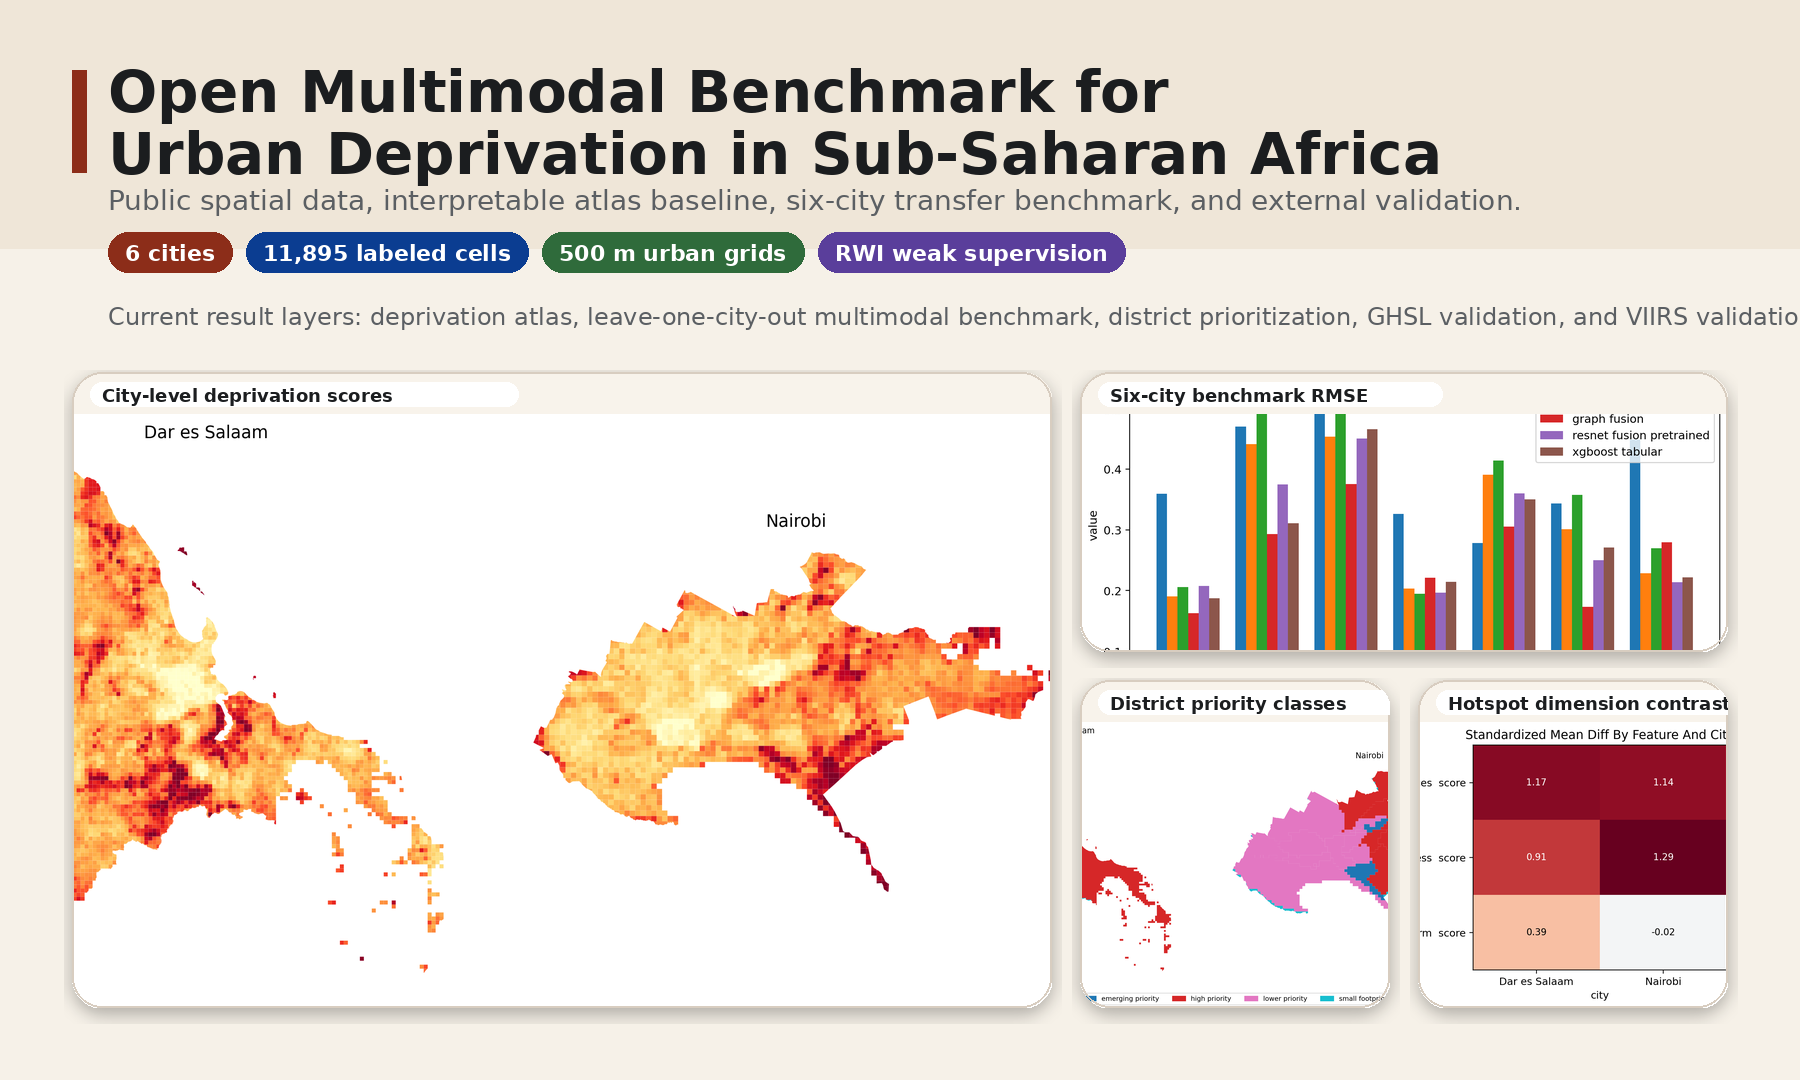
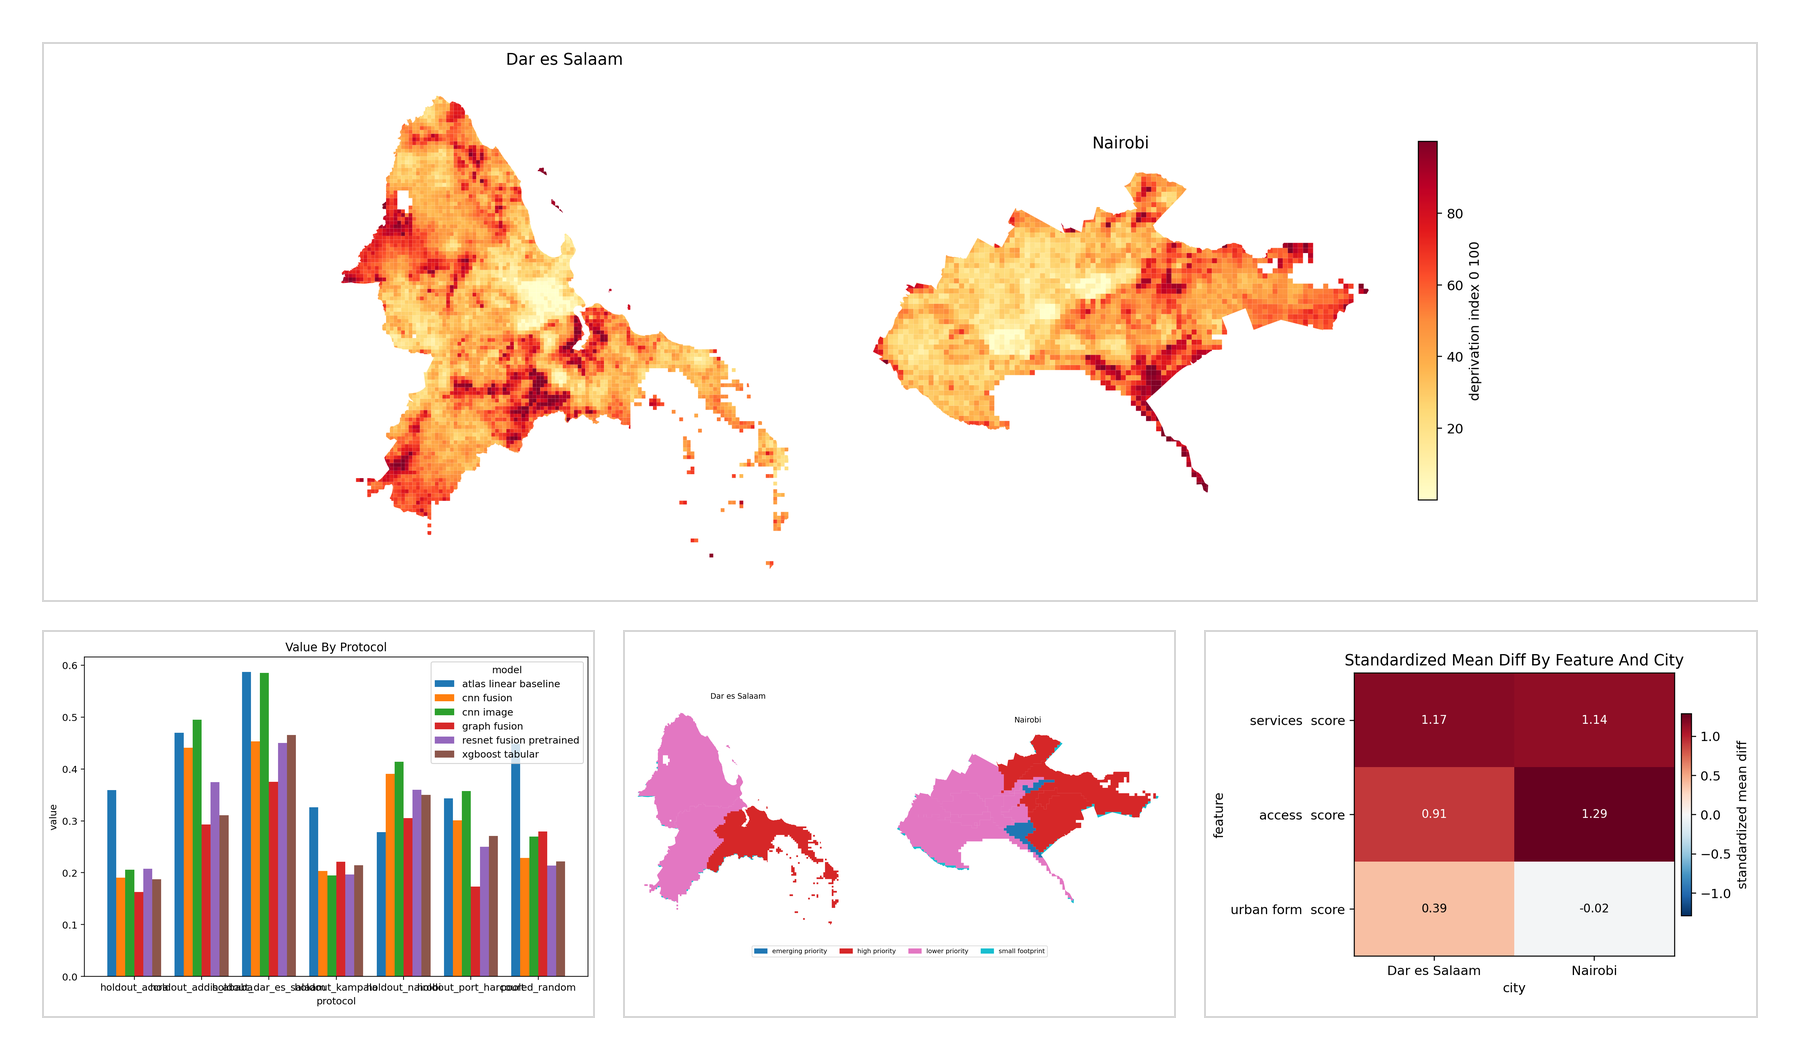
Update readme

diff --git a/image/README/build_readme_teaser.py b/image/README/build_readme_teaser.py
@@ -3,56 +3,22 @@ from __future__ import annotations
 from pathlib import Path
 
 from PIL import Image
-from PIL import ImageColor
 from PIL import ImageDraw
-from PIL import ImageFilter
-from PIL import ImageFont
 
 
 ROOT = Path(__file__).resolve().parents[2]
-OUTPUT = ROOT / "image" / "README" / "readme_teaser.png"
+OUT_DIR = ROOT / "image" / "README"
+
 ASSETS = {
-    "map": ROOT / "outputs" / "figures" / "paper_core" / "figure_01_city_score_map.png",
-    "rmse": ROOT / "outputs" / "figures" / "ml" / "core6_rwi_benchmark_rmse.png",
-    "districts": ROOT / "outputs" / "figures" / "paper_core" / "figure_09_admin_priority_class.png",
-    "contrast": ROOT / "outputs" / "figures" / "paper_core" / "figure_05_hotspot_dimension_contrast.png",
+    "teaser_map": ROOT / "outputs" / "figures" / "paper_core" / "figure_01_city_score_map.png",
+    "teaser_rmse": ROOT / "outputs" / "figures" / "ml" / "core6_rwi_benchmark_rmse.png",
+    "teaser_districts": ROOT / "outputs" / "figures" / "paper_core" / "figure_09_admin_priority_class.png",
+    "teaser_contrast": ROOT / "outputs" / "figures" / "paper_core" / "figure_05_hotspot_dimension_contrast.png",
+    "absolute_relative": ROOT / "outputs" / "figures" / "paper_core" / "figure_04_absolute_relative_scatter.png",
 }
 
-WIDTH = 1800
-HEIGHT = 1080
-MARGIN = 72
-PANEL_BG = "#f8f3eb"
-TEXT_MAIN = "#1b1d1f"
-TEXT_MUTED = "#5b5f63"
-ACCENT = "#8c2d19"
-ACCENT_2 = "#0b3d91"
-ACCENT_3 = "#2f6b3b"
-ACCENT_4 = "#5a3e9b"
-CARD_BORDER = "#d8cdc0"
-CANVAS = "#f6f1e8"
-
-
-def _load_font(size: int, bold: bool = False) -> ImageFont.FreeTypeFont | ImageFont.ImageFont:
-    candidates = []
-    if bold:
-        candidates.extend(
-            [
-                "/usr/share/fonts/truetype/dejavu/DejaVuSans-Bold.ttf",
-                "/usr/share/fonts/truetype/liberation2/LiberationSans-Bold.ttf",
-            ]
-        )
-    else:
-        candidates.extend(
-            [
-                "/usr/share/fonts/truetype/dejavu/DejaVuSans.ttf",
-                "/usr/share/fonts/truetype/liberation2/LiberationSans-Regular.ttf",
-            ]
-        )
-    for candidate in candidates:
-        path = Path(candidate)
-        if path.exists():
-            return ImageFont.truetype(str(path), size=size)
-    return ImageFont.load_default()
+WHITE = (255, 255, 255)
+BORDER = "#d7d7d7"
 
 
 def _cover(image: Image.Image, size: tuple[int, int]) -> Image.Image:
@@ -65,129 +31,90 @@ def _cover(image: Image.Image, size: tuple[int, int]) -> Image.Image:
     return resized.crop((left, top, left + target_w, top + target_h))
 
 
-def _rounded_mask(size: tuple[int, int], radius: int) -> Image.Image:
-    mask = Image.new("L", size, 0)
-    draw = ImageDraw.Draw(mask)
-    draw.rounded_rectangle((0, 0, size[0], size[1]), radius=radius, fill=255)
-    return mask
+def _contain(image: Image.Image, size: tuple[int, int], bg: tuple[int, int, int] = WHITE) -> Image.Image:
+    target_w, target_h = size
+    src_w, src_h = image.size
+    scale = min(target_w / src_w, target_h / src_h)
+    resized = image.resize((max(1, int(src_w * scale)), max(1, int(src_h * scale))), Image.Resampling.LANCZOS)
+    canvas = Image.new("RGB", size, bg)
+    x = (target_w - resized.width) // 2
+    y = (target_h - resized.height) // 2
+    canvas.paste(resized, (x, y))
+    return canvas
 
 
-def _paste_panel(base: Image.Image, image_path: Path, box: tuple[int, int, int, int], label: str) -> None:
+def _save_downscaled(src: Path, dst: Path, max_width: int) -> None:
+    image = Image.open(src).convert("RGB")
+    if image.width > max_width:
+        ratio = max_width / image.width
+        image = image.resize((max_width, int(image.height * ratio)), Image.Resampling.LANCZOS)
+    image.save(dst, quality=95)
+
+
+def _draw_panel(base: Image.Image, image: Image.Image, box: tuple[int, int, int, int], mode: str = "cover") -> None:
     x0, y0, x1, y1 = box
-    w = x1 - x0
-    h = y1 - y0
-    radius = 30
-    shadow = Image.new("RGBA", (w + 18, h + 18), (0, 0, 0, 0))
-    shadow_draw = ImageDraw.Draw(shadow)
-    shadow_draw.rounded_rectangle((8, 8, w + 8, h + 8), radius=radius, fill=(0, 0, 0, 72))
-    shadow = shadow.filter(ImageFilter.GaussianBlur(8))
-    base.alpha_composite(shadow, (x0 - 8, y0 - 2))
-
-    panel = Image.new("RGBA", (w, h), ImageColor.getrgb(PANEL_BG) + (255,))
-    image = _cover(Image.open(image_path).convert("RGB"), (w, h - 42)).convert("RGBA")
-    panel.alpha_composite(image, (0, 42))
-
-    draw = ImageDraw.Draw(panel)
-    draw.rounded_rectangle((0, 0, w - 1, h - 1), radius=radius, outline=CARD_BORDER, width=2)
-    draw.rounded_rectangle((18, 10, 18 + len(label) * 14 + 22, 10 + 24), radius=12, fill=(255, 255, 255, 230))
-    draw.text((30, 13), label, font=_load_font(18, bold=True), fill=TEXT_MAIN)
-
-    mask = _rounded_mask((w, h), radius)
-    panel.putalpha(mask)
-    base.alpha_composite(panel, (x0, y0))
+    panel_w = x1 - x0
+    panel_h = y1 - y0
+    if mode == "contain":
+        panel = _contain(image, (panel_w, panel_h))
+    else:
+        panel = _cover(image, (panel_w, panel_h))
+    base.paste(panel, (x0, y0))
+    draw = ImageDraw.Draw(base)
+    draw.rectangle((x0, y0, x1 - 1, y1 - 1), outline=BORDER, width=2)
 
 
-def _draw_chip(draw: ImageDraw.ImageDraw, x: int, y: int, text: str, fill: str) -> int:
-    font = _load_font(22, bold=True)
-    text_box = draw.textbbox((0, 0), text, font=font)
-    width = text_box[2] - text_box[0] + 34
-    height = 40
-    draw.rounded_rectangle((x, y, x + width, y + height), radius=20, fill=fill)
-    draw.text((x + 17, y + 8), text, font=font, fill="white")
-    return width
+def build_teaser() -> None:
+    width = 1800
+    height = 1060
+    margin = 42
+    gap = 28
+
+    canvas = Image.new("RGB", (width, height), WHITE)
+    inner_w = width - margin * 2
+    top_h = 560
+    bottom_h = height - margin * 2 - top_h - gap
+    small_w = (inner_w - gap * 2) // 3
+
+    map_image = Image.open(ASSETS["teaser_map"]).convert("RGB")
+    rmse_image = Image.open(ASSETS["teaser_rmse"]).convert("RGB")
+    district_image = Image.open(ASSETS["teaser_districts"]).convert("RGB")
+    contrast_image = Image.open(ASSETS["teaser_contrast"]).convert("RGB")
+
+    _draw_panel(
+        canvas,
+        map_image,
+        (margin, margin, width - margin, margin + top_h),
+        mode="contain",
+    )
+    bottom_y0 = margin + top_h + gap
+    _draw_panel(
+        canvas,
+        rmse_image,
+        (margin, bottom_y0, margin + small_w, bottom_y0 + bottom_h),
+        mode="contain",
+    )
+    _draw_panel(
+        canvas,
+        district_image,
+        (margin + small_w + gap, bottom_y0, margin + small_w * 2 + gap, bottom_y0 + bottom_h),
+        mode="contain",
+    )
+    _draw_panel(
+        canvas,
+        contrast_image,
+        (margin + small_w * 2 + gap * 2, bottom_y0, width - margin, bottom_y0 + bottom_h),
+        mode="contain",
+    )
+
+    canvas.save(OUT_DIR / "readme_teaser.png", quality=95)
 
 
 def main() -> None:
-    OUTPUT.parent.mkdir(parents=True, exist_ok=True)
-
-    base = Image.new("RGBA", (WIDTH, HEIGHT), CANVAS)
-    draw = ImageDraw.Draw(base)
-
-    draw.rounded_rectangle((0, 0, WIDTH, 248), radius=0, fill="#efe6d8")
-    draw.rectangle((MARGIN, 70, MARGIN + 14, 172), fill=ACCENT)
-
-    title_font = _load_font(58, bold=True)
-    subtitle_font = _load_font(28, bold=False)
-    body_font = _load_font(24, bold=False)
-
-    draw.text(
-        (MARGIN + 36, 58),
-        "Open Multimodal Benchmark for\nUrban Deprivation in Sub-Saharan Africa",
-        font=title_font,
-        fill=TEXT_MAIN,
-        spacing=8,
-    )
-    draw.text(
-        (MARGIN + 36, 184),
-        "Public spatial data, interpretable atlas baseline, six-city transfer benchmark, and external validation.",
-        font=subtitle_font,
-        fill=TEXT_MUTED,
-    )
-
-    chips = [
-        ("6 cities", ACCENT),
-        ("11,895 labeled cells", ACCENT_2),
-        ("500 m urban grids", ACCENT_3),
-        ("RWI weak supervision", ACCENT_4),
-    ]
-    chip_x = MARGIN + 36
-    chip_y = 232
-    for text, fill in chips:
-        chip_x += _draw_chip(draw, chip_x, chip_y, text, fill) + 14
-
-    note_x = MARGIN + 36
-    note_y = 302
-    note = (
-        "Current result layers: deprivation atlas, leave-one-city-out multimodal benchmark, "
-        "district prioritization, GHSL validation, and VIIRS validation."
-    )
-    draw.text((note_x, note_y), note, font=body_font, fill=TEXT_MUTED)
-
-    left_x = MARGIN
-    right_x = WIDTH - MARGIN
-    top_y = 372
-    gap = 28
-    map_w = 980
-    right_w = right_x - left_x - map_w - gap
-    row_h = 280
-    bottom_h = 340
-
-    _paste_panel(
-        base,
-        ASSETS["map"],
-        (left_x, top_y, left_x + map_w, HEIGHT - MARGIN),
-        "City-level deprivation scores",
-    )
-    _paste_panel(
-        base,
-        ASSETS["rmse"],
-        (left_x + map_w + gap, top_y, right_x, top_y + row_h),
-        "Six-city benchmark RMSE",
-    )
-    _paste_panel(
-        base,
-        ASSETS["districts"],
-        (left_x + map_w + gap, top_y + row_h + gap, left_x + map_w + gap + right_w // 2 - gap // 2, HEIGHT - MARGIN),
-        "District priority classes",
-    )
-    _paste_panel(
-        base,
-        ASSETS["contrast"],
-        (left_x + map_w + gap + right_w // 2 + gap // 2, top_y + row_h + gap, right_x, HEIGHT - MARGIN),
-        "Hotspot dimension contrast",
-    )
-
-    base.convert("RGB").save(OUTPUT, quality=95)
+    OUT_DIR.mkdir(parents=True, exist_ok=True)
+    build_teaser()
+    _save_downscaled(ASSETS["absolute_relative"], OUT_DIR / "readme_absolute_relative.png", max_width=1400)
+    _save_downscaled(ASSETS["teaser_rmse"], OUT_DIR / "readme_benchmark_rmse.png", max_width=1400)
 
 
 if __name__ == "__main__":

diff --git a/README.md b/README.md
@@ -14,7 +14,6 @@
 
 <p align="center">
   <a href="#at-a-glance">At a Glance</a> ·
-  <a href="#visual-summary">Visual Summary</a> ·
   <a href="#methods">Methods</a> ·
   <a href="#current-results">Results</a> ·
   <a href="#reproducibility">Reproducibility</a> ·
@@ -30,6 +29,10 @@ The current repository has two empirical layers:
 
 <p align="center">
   <img src="image/README/readme_teaser.png" width="94%" alt="Project teaser figure" />
+</p>
+
+<p align="center">
+  <sub>Atlas baseline, six-city benchmark, district prioritization, and hotspot mechanism outputs.</sub>
 </p>
 
 ## At a Glance
@@ -49,35 +52,6 @@ The current repository has two empirical layers:
 - Interpretable baseline retained alongside transfer-oriented ML benchmarks rather than replaced by them.
 - Configuration-driven workflow with CLI and Makefile entry points for reproducible reruns.
 - Current benchmark scale: `11,895` labeled cells across six cities.
-
-## Visual Summary
-
-<table>
-  <tr>
-    <td align="center" width="50%">
-      <img src="outputs/figures/paper_core/figure_02_hotspot_map.png" alt="Local Moran hotspot classification" />
-      <br />
-      <sub>Local Moran hotspot structure in the two-city atlas baseline.</sub>
-    </td>
-    <td align="center" width="50%">
-      <img src="outputs/figures/ml/core6_rwi_benchmark_rmse.png" alt="Core6 benchmark RMSE" />
-      <br />
-      <sub>Six-city benchmark comparison under pooled and holdout evaluation.</sub>
-    </td>
-  </tr>
-  <tr>
-    <td align="center" width="50%">
-      <img src="outputs/figures/paper_core/figure_09_admin_priority_class.png" alt="District priority classes" />
-      <br />
-      <sub>District-level priority classes derived from cell-level burden and hotspot concentration.</sub>
-    </td>
-    <td align="center" width="50%">
-      <img src="outputs/figures/atlas/mvp_hotspot_dimension_contrast_heatmap.png" alt="Hotspot dimension contrast" />
-      <br />
-      <sub>Standardized contrasts between hotspot and non-hotspot deprivation dimensions.</sub>
-    </td>
-  </tr>
-</table>
 
 ## Study Scope
 
@@ -174,7 +148,7 @@ The repository includes a generic raster-validation route and current validation
 - Cross-city ordering is unchanged under the 1 km sensitivity analysis.
 
 <p align="center">
-  <img src="outputs/figures/paper_core/figure_04_absolute_relative_scatter.png" width="82%" alt="Absolute and within-city relative deprivation scores" />
+  <img src="image/README/readme_absolute_relative.png" width="82%" alt="Absolute and within-city relative deprivation scores" />
 </p>
 
 ### Six-City Benchmark
@@ -189,16 +163,9 @@ The repository includes a generic raster-validation route and current validation
 - Under leave-one-city-out evaluation, `graph_fusion` is the dominant model on most holdout protocols and metrics.
 - The interpretable atlas baseline remains competitive: on `holdout_nairobi`, it has the lowest RMSE and MAE.
 
-<table>
-  <tr>
-    <td align="center" width="50%">
-      <img src="outputs/figures/ml/core6_rwi_benchmark_spearman.png" alt="Core6 benchmark Spearman correlation" />
-    </td>
-    <td align="center" width="50%">
-      <img src="outputs/figures/ml/core6_rwi_benchmark_average_precision.png" alt="Core6 benchmark average precision" />
-    </td>
-  </tr>
-</table>
+<p align="center">
+  <img src="image/README/readme_benchmark_rmse.png" width="74%" alt="Six-city benchmark RMSE" />
+</p>
 
 ### External Validation
 
@@ -208,17 +175,6 @@ The repository includes a generic raster-validation route and current validation
 - VIIRS night-time lights show the expected negative association with deprivation.
 - The highest VIIRS alignment is for `rwi_deprivation_proxy_0_100` in Dar es Salaam with signed Spearman `0.7665`; the highest atlas-index alignment is in Addis Ababa with signed Spearman `0.6829`.
 - The weakest VIIRS alignment is for `deprivation_index_0_100` in Nairobi.
-
-<table>
-  <tr>
-    <td align="center" width="50%">
-      <img src="outputs/figures/paper_core/figure_05_hotspot_dimension_contrast.png" alt="Hotspot dimension contrast" />
-    </td>
-    <td align="center" width="50%">
-      <img src="outputs/figures/paper_core/figure_10_admin_priority_population_share.png" alt="Population share by district priority class" />
-    </td>
-  </tr>
-</table>
 
 ## Key Outputs
 
